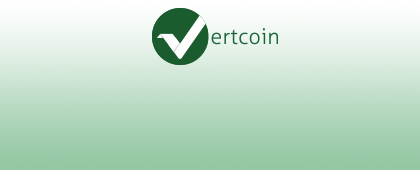
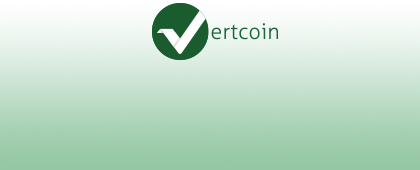
MiniVert window styling

Changed region(s): [[0.3405, 0.0, 0.681, 0.3824]]

diff --git a/data/minivert/style.css b/data/minivert/style.css
@@ -4,32 +4,32 @@
 }
 
 MiniWindow QPushButton {
-  color: #C1A76D;
-  border: 1px solid #A7811C;
+  color: #639D74;
+  border: 1px solid #2B8A47;
   border-radius: 0px;
   background-color: qlineargradient(x1: 0, y1: 0, x2: 0, y2: 1,
-  stop: 0 white, stop: 1 #F2E3BE);
+  stop: 0 white, stop: 1 #A3E5b7);
   min-height: 25px;
   min-width: 30px;
 }
 
 #send_button{
-  color: #FEEBA7;
-  border: 1px solid #AD8B35;
+  color: #3BC563;
+  border: 1px solid #267B3F;
   border-radius: 4px;
   background-color: qlineargradient(x1: 0, y1: 0, x2: 0, y2: 1,
-  stop: 0 #E0A035, stop: 1 #AD8B35);
+  stop: 0 #14A73F, stop: 1 #267B3F);
   min-width: 80px;
   min-height: 23px;
   padding: 2px;
 }
 
 #send_button:disabled{
-  color: #FEEDD3;
-  border: 1px solid #F7D46D;
+  color: #BDFACF;
+  border: 1px solid #5FC47D;
   border-radius: 4px;
   background-color: qlineargradient(x1: 0, y1: 0, x2: 0, y2: 1,
-  stop: 0 #FAEEA5, stop: 1 #DBC050);
+  stop: 0 #9FFCBA, stop: 1 #64A677);
   min-width: 80px;
   min-height: 23px;
   padding: 2px;
@@ -37,19 +37,19 @@ MiniWindow QPushButton {
 
 #receive_button
 {
-  color: #FEEBA7;
-  border: 1px solid #AD8B35;
+  color: #3BC563;
+  border: 1px solid #267B3F;
   border-radius: 4px;
   background-color: qlineargradient(x1: 0, y1: 0, x2: 0, y2: 1,
-  stop: 0 #E0A035, stop: 1 #AD8B35);
+  stop: 0 #14A73F, stop: 1 #267B3F);
   min-height: 25px;
   min-width: 30px;
 }          
 #receive_button[isActive=true]
 {
-  color: #FEEBA7;
+  color: #3BC563;
   background-color: qlineargradient(x1: 0, y1: 0, x2: 0, y2: 1,
-  stop: 0 #E0A035, stop: 1 #987620);
+  stop: 0 #14A73F, stop: 1 #987620);
 } 
 
 #address_input, #amount_input
@@ -57,7 +57,7 @@ MiniWindow QPushButton {
     color: #000;
     padding: 5px;
     border-radius: 4px;
-    border: 1px solid #CBAE69;
+    border: 1px solid #6FBA85;
     width: 225px;
 }
 
@@ -66,7 +66,7 @@ MiniWindow QPushButton {
   color: #4D9948;
   padding: 5px;
   border-radius: 4px;
-  border: 1px solid #CBAE69;
+  border: 1px solid #6FBA85;
   width: 225px;
   margin-top: 4px;
 }
@@ -76,7 +76,7 @@ MiniWindow QPushButton {
   color: #CE4141;
   padding: 5px;
   border-radius: 4px;
-  border: 1px solid #CBAE69;
+  border: 1px solid #6FBA85;
   width: 225px;
   margin-top: 4px;
 }
@@ -86,17 +86,17 @@ MiniWindow QPushButton {
   color: #DEC58D;
   padding: 5px;
   border-radius: 4px;
-  border: 1px solid #CBAE69;
+  border: 1px solid #6FBA85;
   width: 225px;
   margin-top: 4px;
 }
 #balance_label
 {
-    color: #7E5907;
+    color: #0C782B;
 }
 
 #history
 {
-    color: #8B6914;
+    color: #268D44;
 }
 
